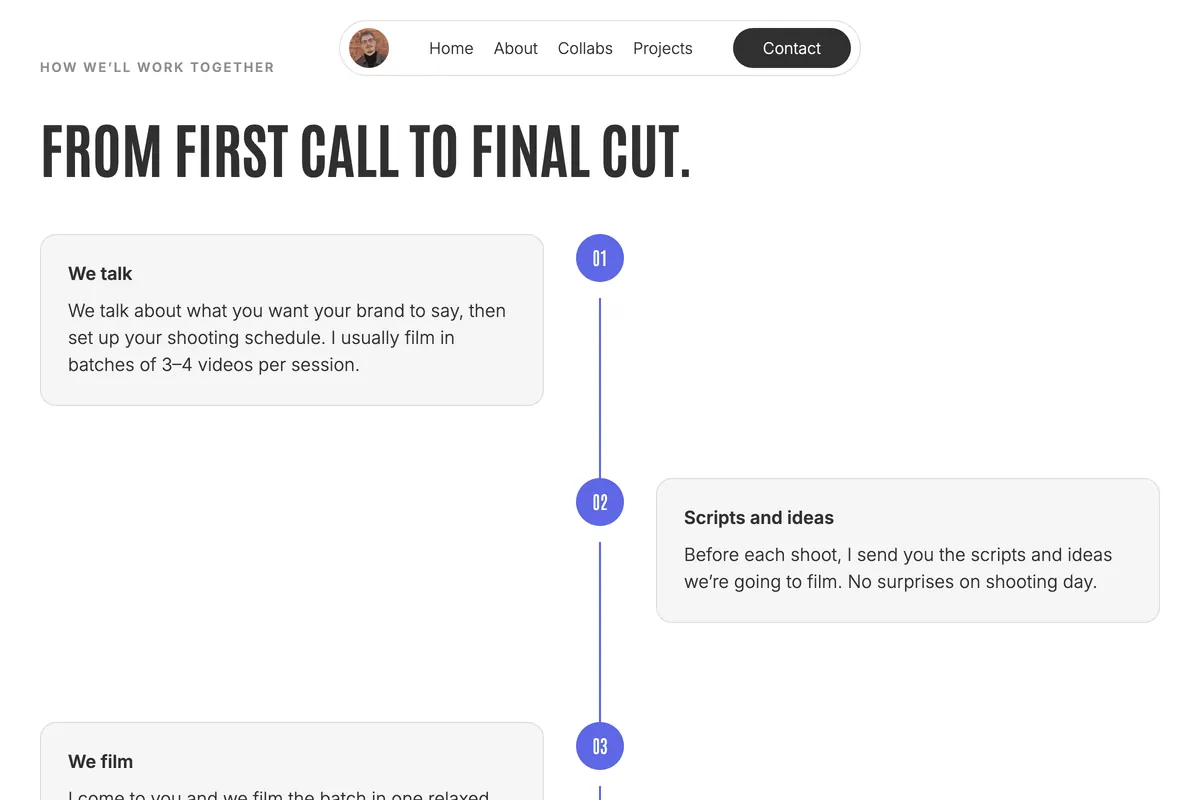
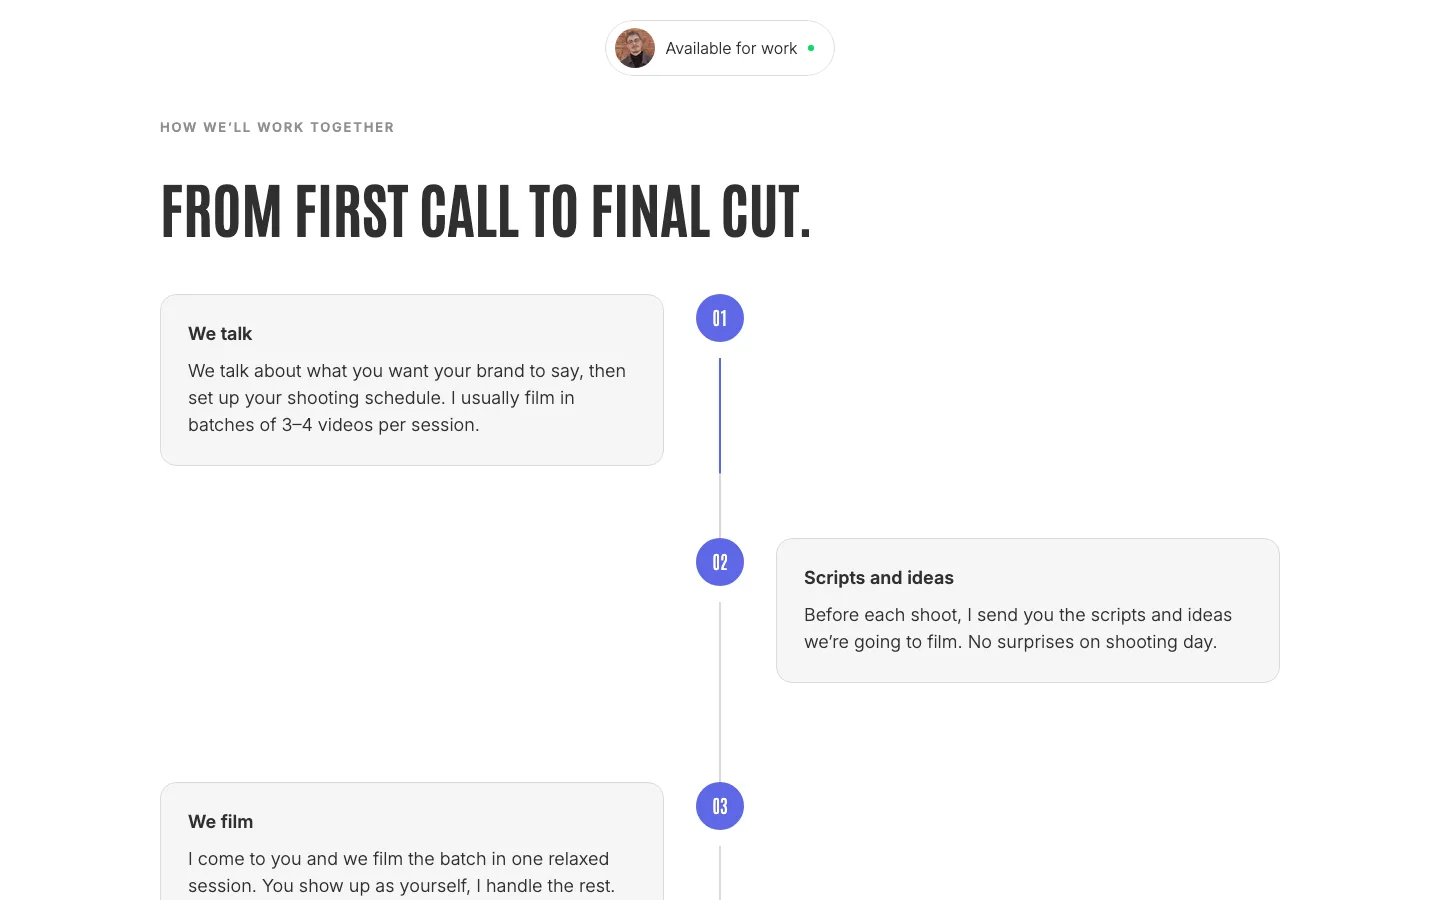
fix(pricing-ro): phone timeline centred like /pricing; README screenshots from the English site
Framer's /pricing-ro keeps phone timeline rows horizontal. The owner wants it
like /pricing (R19). The pricing-ro-phone baseline is re-captured from the
rebuild. README process shots retaken from /pricing.

diff --git a/docs/decisions.md b/docs/decisions.md
@@ -99,3 +99,4 @@ These were decided during the build and surfaced to Andrei. Each is small to rev
   - `/privacy` and `/privacy-ro` (`content/privacy.<lang>.json`): the contact form collects names and email addresses from EU visitors and passes them through Cloudflare (Turnstile, Workers AI), Resend and Gmail, so GDPR asks for a notice saying who is responsible, why, who handles the data, for how long, and the visitor's rights. The controller is Andrei as a private person. The footer links it in the page language and a line under the contact form links it too. Both links carry `data-baseline-remove`, so the Framer baselines still apply.
   - `/pricing` and `/pricing-ro` had the home page's title and description (Framer's site-wide defaults). Each now has its own.
   - An 180 px Apple touch icon from the favicon, on white, and schema.org `Person` data on `/` built from values the page already shows. No location: the owner works across Romania and internationally, so no city is named anywhere.
+- **R19. Same phone timeline on `/pricing-ro` (2026-11-16).** Framer's `/pricing-ro` keeps the phone timeline rows horizontal, with the numbered dots on the left and the cards beside them. At the owner's request it now uses the `/pricing` phone layout: dots centred, each card under its dot, and the lines above and below the dots. The `pricing-ro-phone` visual baseline was re-captured from the rebuild for this; the other eight baselines are still Framer's.

diff --git a/README.md b/README.md
@@ -30,7 +30,7 @@ Same pages, text and animations as the Framer site. Full Lighthouse data: [docs/
   </tr>
   <tr>
     <td><img src="docs/img/contact-desktop.webp" alt="Contact form"></td>
-    <td align="center"><img src="docs/img/process-phone.webp" alt="The same timeline in Romanian on a phone" width="45%"></td>
+    <td align="center"><img src="docs/img/process-phone.webp" alt="The same timeline on a phone: each step centred under its number" width="45%"></td>
   </tr>
 </table>
 
